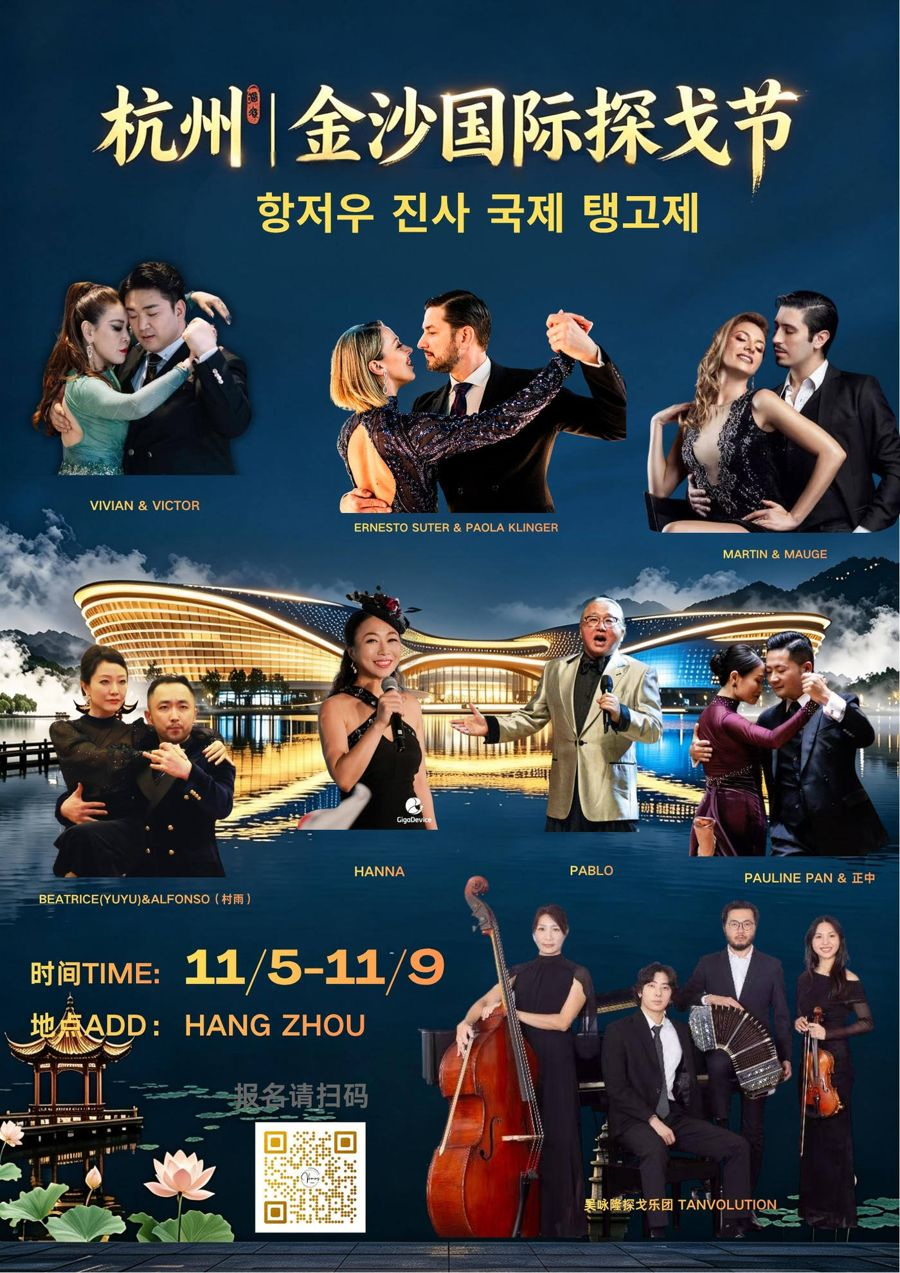
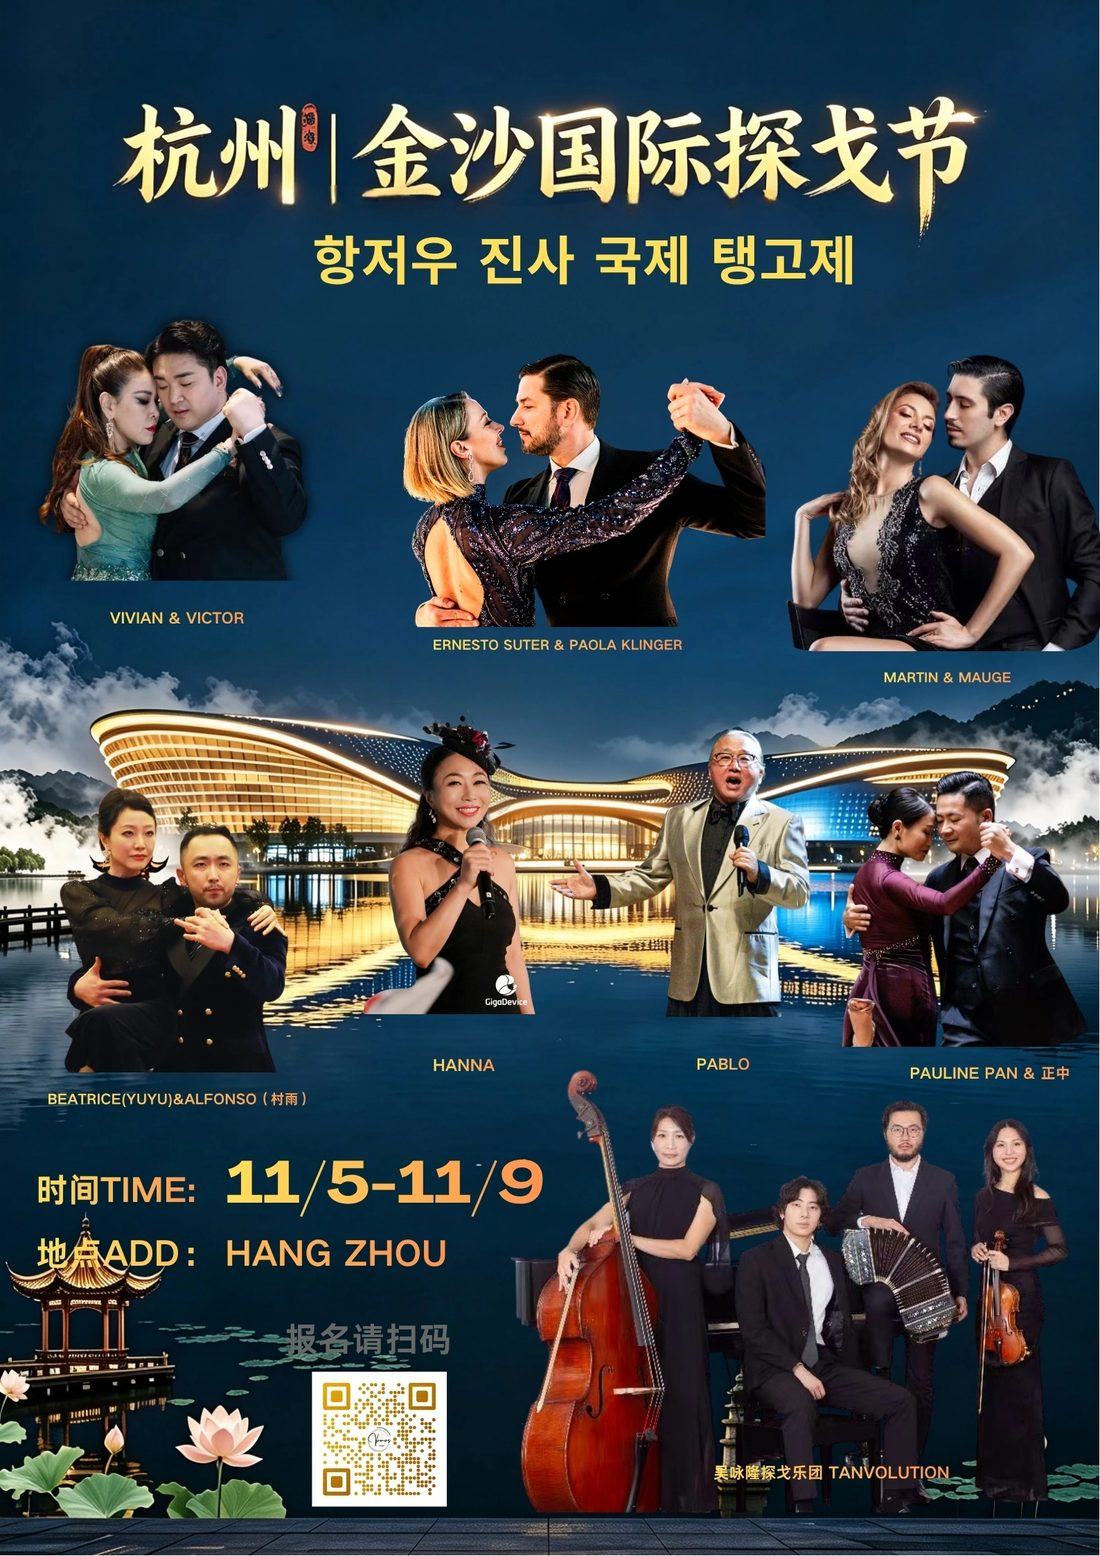
Hangzhou: top poster, program, performers, prices, hotel, contact from organizer article; merge duplicate map entry (featured)

Changed region(s): [[0.0311, 0.7965, 0.0933, 0.8272], [0.6533, 0.1532, 0.6844, 0.1838]]

diff --git a/event/hangzhou-2026-tango-festival/index.html b/event/hangzhou-2026-tango-festival/index.html
@@ -7,34 +7,38 @@
 <link rel="canonical" href="https://tangoweekend.org/event/hangzhou-2026-tango-festival/">
 <link rel="alternate" hreflang="en" href="https://tangoweekend.org/event/hangzhou-2026-tango-festival/">
 <link rel="alternate" hreflang="zh-CN" href="https://tangoweekend.org/event/hangzhou-2026-tango-festival/zh/">
-<link rel="stylesheet" href="../../css/style.css?v=china187">
+<link rel="stylesheet" href="../../css/style.css?v=china188">
 <link rel="icon" href="/favicon.svg" type="image/svg+xml"><link rel="icon" href="/favicon-32.png" sizes="32x32" type="image/png"><link rel="alternate icon" href="/favicon.ico"><link rel="apple-touch-icon" href="/apple-touch-icon.png">
 </head>
 <body class="hz-theme">
 <div class="atm-bar atm-sticky"><a class="atm-map" href="../../asia/"><span aria-hidden="true">←</span> Asia Tango Map</a><a class="atm-lang" href="zh/" hreflang="zh-CN">中文</a></div>
+<div class="hz-topbanner"><img src="../../images/hangzhou/poster.jpg" alt="Hangzhou Jinsha International Tango Festival 2026 poster" width="1100" height="1556" fetchpriority="high"></div>
 <header class="site-header">
   <div class="wrap">
     <a class="brand hz-brand" href="#top">Hangzhou Jinsha International Tango Festival</a>
     <button class="nav-toggle" aria-label="Menu" aria-expanded="false">☰</button>
     <div class="header-menus">
-    <nav class="main-nav" aria-label="Sections"><a href="#top">Home</a><a href="#schedule">Schedule</a><a href="#prices">Prices</a><a href="#hotel">Hotel</a><a href="#register">Register</a></nav>
+    <nav class="main-nav" aria-label="Sections"><a href="#top">Home</a><a href="#program">Program</a><a href="#performers">Performers</a><a href="#prices">Prices</a><a href="#hotel">Hotel</a><a href="#register">Register</a><a href="#contact">Contact</a></nav>
     </div>
   </div>
 </header>
 <section class="hero" id="top"><div class="wrap" style="display:block;text-align:center;max-width:820px">
 <span class="edition">2nd Edition · November 5–9, 2026</span><h1>Hangzhou Jinsha International Tango Festival</h1>
 <p class="meta">Jinsha Grand Theater &amp; Shessiney Natural Cave Wine Cellar · Hangzhou, China</p>
-<p>The autumn scenery of West Lake meets romantic tango. A high-end international tango event with live orchestras, milongas, a West Lake tour, a private banquet and lake-view stays.</p>
-<p class="meta">Theme: Light Luxury International Tango Art Gala</p>
+<p>The autumn scenery of West Lake meets romantic tango. A high-end international tango event with milongas, a West Lake tour, a private banquet and lake-view stays.</p>
+<p class="meta">Theme: Light Luxury International Tango Art Gala · Organized by Vamos 万姿探戈</p>
+<p class="meta">Six milongas · Live music by the 吳詠隆 band from Taiwan · Performances by three guest couples</p>
 <div class="btns" style="justify-content:center"><a class="btn btn-gold" href="#register">Register</a><a class="btn btn-ghost" href="#schedule">Schedule</a></div></div></section>
-<section class="hz-posters"><div class="wrap"><div class="hz-pair">
-<figure><img src="../../images/hangzhou/poster.jpg" alt="Festival poster" width="900" height="1273" loading="lazy"></figure>
+<section class="hz-posters"><div class="wrap"><div class="hz-pair hz-single">
 <figure><img src="../../images/hangzhou/schedule.jpg" alt="Schedule and DJs" width="900" height="1273" loading="lazy"></figure>
 </div></div></section>
-<section id="schedule" class="alt"><div class="wrap"><h2 class="sec-title">Schedule</h2><div class="hz-table-wrap"><table class="hz-table"><thead><tr><th>Date</th><th>Time</th><th>Event</th><th>Venue / activity</th><th>DJ</th><th>Price</th></tr></thead><tbody><tr><td>Thu 11/5</td><td>21:00–03:00</td><td>M1</td><td>Jinsha Grand Theater</td><td>Randy (Taiwan)</td><td>¥220</td></tr><tr><td>Fri 11/6</td><td>15:00–19:00</td><td>M2</td><td>Jinsha Grand Theater</td><td>Sergio (Mexico)</td><td>¥200</td></tr><tr><td>Fri 11/6</td><td>21:00–03:00</td><td>M3</td><td>Jinsha Grand Theater · Milonga, performances, orchestra</td><td>Haiou (Beijing)</td><td>¥420</td></tr><tr><td>Sat 11/7</td><td>15:00–19:00</td><td>M4</td><td>Jinsha Grand Theater</td><td>Gouchen (Beijing)</td><td>¥200</td></tr><tr><td>Sat 11/7</td><td>21:00–03:00</td><td>M5</td><td>Jinsha Grand Theater · Milonga, performances, orchestra</td><td>Wang Wei (Shanghai)</td><td>¥420</td></tr><tr><td>Sun 11/8</td><td>14:00–01:00</td><td>V7</td><td>West Lake cruise, dinner at Shanwaishan, cave wine cellar milonga</td><td>Ernesto Suter (Argentina)</td><td>¥700</td></tr><tr><td>Mon 11/9</td><td>13:00–17:00 · 21:00–24:00</td><td>M6</td><td>Shopping at Haining China Leather City; terrace cocktail bar</td><td>Lily / Randy</td><td>¥120</td></tr></tbody></table></div></div></section>
-<section id="prices"><div class="wrap"><h2 class="sec-title">Prices</h2><div class="hz-cards"><div class="card"><h3>Full pass (early bird, until Aug 31)</h3><ul><li><b>¥1,580</b> per person</li><li><b>¥5,200</b> for a group of 4</li><li>Milonga singles: 10% off when you book two or more</li></ul></div><div class="card"><h3>Weekend milonga packages</h3><ul><li>Package 1: M2, M3, M4, M5 · <b>¥980</b></li><li>Package 2: M3, M4, M5, V7 (milonga only) · <b>¥1,180</b></li></ul></div></div></div></section>
-<section id="hotel" class="alt"><div class="wrap"><h2 class="sec-title">Hotel</h2><div class="card"><h3>Hangzhou Tipsy Hotel / DoubleTree by Hilton Hangzhou East</h3><ul><li>Deluxe twin room · ¥550 per night</li><li>Deluxe king room · ¥550 per night</li><li>Deluxe suite · ¥880 per night</li></ul><p class="meta">Prices include breakfast for two. Choose your check-in and check-out dates on the registration form.</p></div></div></section>
+<section id="program" class="alt"><div class="wrap"><h2 class="sec-title">Program</h2><div class="day"><div class="day-date">Day 1–3 · Nov 5–7</div><div><div class="ev"><div>Afternoon shuttle; doors open</div><div class="ev-time">13:00–14:00</div></div><div class="ev"><div>Afternoon milonga, Jinsha Grand Theater</div><div class="ev-time">14:00–19:00</div></div><div class="ev"><div>Evening shuttle; doors open</div><div class="ev-time">20:00–21:00</div></div><div class="ev"><div>Evening milonga and performances</div><div class="ev-time">21:00–03:00</div></div></div></div><div class="day"><div class="day-date">Day 4 · Sun, Nov 8</div><div><div class="ev"><div>Guided West Lake half-day tour</div><div class="ev-time">14:00–17:30</div></div><div class="ev"><div>Hangzhou-style dinner at Shanwaishan (Botanical Garden)</div><div class="ev-time">18:00–19:30</div></div><div class="ev"><div>Milonga at the Shessiney cave wine cellar, Argentine DJ</div><div class="ev-time">20:00–01:00</div></div></div></div><div class="day"><div class="day-date">Day 5 · Mon, Nov 9</div><div><div class="ev"><div>Depart for Haining China Leather City</div><div class="ev-time">12:00</div></div><div class="ev"><div>Rooftop sunset terrace: music and cocktails</div><div class="ev-time">20:30</div></div></div></div><p class="meta">The Nov 8 program is included in the full pass only and is not sold separately.</p></div></section>
+<section id="performers"><div class="wrap"><h2 class="sec-title">Performers &amp; Music</h2><div class="hz-cards"><div class="card"><h3>Performers</h3><ul><li>Vivian &amp; Victor</li><li>Ernesto Suter &amp; Paola Klinger</li><li>Martin &amp; Mauge</li><li>Beatrice (Yuyu) &amp; Alfonso (村雨)</li><li>Hanna</li><li>Pablo</li><li>Pauline Pan &amp; 正中</li></ul></div><div class="card"><h3>Band</h3><ul><li>吳詠隆探戈乐团 TANVOLUTION</li></ul></div></div></div></section>
+<section id="schedule" class="alt"><div class="wrap"><h2 class="sec-title">Milonga tickets &amp; DJs</h2><div class="hz-table-wrap"><table class="hz-table"><thead><tr><th>Date</th><th>Session</th><th>Venue / activity</th><th>DJ</th><th>Price</th></tr></thead><tbody><tr><td>Thu 11/5</td><td>M1</td><td>Jinsha Grand Theater</td><td>Randy (Taiwan)</td><td>¥220</td></tr><tr><td>Fri 11/6</td><td>M2</td><td>Jinsha Grand Theater</td><td>Sergio (Mexico)</td><td>¥200</td></tr><tr><td>Fri 11/6</td><td>M3</td><td>Jinsha Grand Theater · Milonga, performances, orchestra</td><td>Haiou (Beijing)</td><td>¥420</td></tr><tr><td>Sat 11/7</td><td>M4</td><td>Jinsha Grand Theater</td><td>Gouchen (Beijing)</td><td>¥200</td></tr><tr><td>Sat 11/7</td><td>M5</td><td>Jinsha Grand Theater · Milonga, performances, orchestra</td><td>Wang Wei (Shanghai)</td><td>¥420</td></tr><tr><td>Sun 11/8</td><td>V7</td><td>West Lake cruise, dinner at Shanwaishan, cave wine cellar milonga</td><td>Ernesto Suter (Argentina)</td><td>Full pass only</td></tr><tr><td>Mon 11/9</td><td>M6</td><td>Shopping at Haining China Leather City; terrace cocktail bar</td><td>Lily / Randy</td><td>¥120</td></tr></tbody></table></div></div></section>
+<section id="prices"><div class="wrap"><h2 class="sec-title">Prices</h2><div class="hz-cards"><div class="card"><h3>Full pass</h3><ul><li>Regular: <b>¥2,280</b> per person</li><li>Early bird: <b>¥1,580</b> per person</li><li>Early-bird group of 4: <b>¥5,200</b></li><li>Early-bird deadline: Aug 31, 2026</li><li>Milonga singles: 10% off when you book two or more</li></ul></div><div class="card"><h3>Weekend milonga packages</h3><ul><li>Package 1: M2, M3, M4, M5 · <b>¥980</b></li><li>Package 2: M3, M4, M5, V7 (milonga only) · <b>¥1,180</b></li></ul></div></div></div></section>
+<section id="hotel" class="alt"><div class="wrap"><h2 class="sec-title">Hotel</h2><div class="card"><h3>Hangzhou Tipsy Hotel (official hotel)</h3><ul><li>1.3 km from Jinsha Grand Theater</li><li>Free shuttle to the theater, 13:00–14:00 and 20:00–21:00</li><li>Deluxe standard room · ¥420 per night</li><li>Deluxe twin or king room · ¥550 per night</li><li>Deluxe suite · ¥880 per night</li><li>All rates include breakfast for two</li><li>Book a deluxe king room for 4 nights in a row: the first 5 bookings get a free upgrade to a deluxe suite</li></ul><p class="meta">Choose your check-in and check-out dates on the registration form.</p></div></div></section>
 <section id="register"><div class="wrap" style="text-align:center;max-width:760px"><h2 class="sec-title">Register</h2><p>Fill in the form and submit. Staff will check your details and contact you for payment.</p><div class="btns" style="justify-content:center"><a class="btn btn-gold" href="https://uzzfwntg.jsjform.com/f/NBcCOy" target="_blank" rel="noopener">Open registration form</a></div><p class="meta" style="word-break:break-all">https://uzzfwntg.jsjform.com/f/NBcCOy</p></div></section>
+<section id="contact" class="alt"><div class="wrap" style="max-width:760px"><h2 class="sec-title">Contact</h2><ul class="note"><li>Organizers: Randy &amp; Lily</li><li>Email: <a href="mailto:Randychen17@gmail.com">Randychen17@gmail.com</a></li><li>Phone: +86 18205977051 · 15658118111</li><li>Facebook: <a href="https://www.facebook.com/share/1BdGKPAWNB/" target="_blank" rel="noopener">facebook.com/share/1BdGKPAWNB</a></li></ul></div></section>
 <footer><div class="wrap"><p class="copy">© 2026 Hangzhou Jinsha International Tango Festival · Nov 5–9, 2026 · Hangzhou, China</p></div></footer>
 <script>(function(){var btn=document.querySelector('.nav-toggle'),header=document.querySelector('.site-header');if(!btn||!header)return;btn.addEventListener('click',function(){var o=header.classList.toggle('is-open');btn.setAttribute('aria-expanded',o);});header.querySelectorAll('.main-nav a').forEach(function(a){a.addEventListener('click',function(){header.classList.remove('is-open');});});})();</script>
 </body>

diff --git a/event/hangzhou-2026-tango-festival/zh/index.html b/event/hangzhou-2026-tango-festival/zh/index.html
@@ -7,34 +7,38 @@
 <link rel="canonical" href="https://tangoweekend.org/event/hangzhou-2026-tango-festival/zh/">
 <link rel="alternate" hreflang="en" href="https://tangoweekend.org/event/hangzhou-2026-tango-festival/">
 <link rel="alternate" hreflang="zh-CN" href="https://tangoweekend.org/event/hangzhou-2026-tango-festival/zh/">
-<link rel="stylesheet" href="../../../css/style.css?v=china187">
+<link rel="stylesheet" href="../../../css/style.css?v=china188">
 <link rel="icon" href="/favicon.svg" type="image/svg+xml"><link rel="icon" href="/favicon-32.png" sizes="32x32" type="image/png"><link rel="alternate icon" href="/favicon.ico"><link rel="apple-touch-icon" href="/apple-touch-icon.png">
 </head>
 <body class="hz-theme">
 <div class="atm-bar atm-sticky"><a class="atm-map" href="../../../zh/asia/"><span aria-hidden="true">←</span> 亚洲探戈地图</a><a class="atm-lang" href="../" hreflang="en">EN</a></div>
+<div class="hz-topbanner"><img src="../../../images/hangzhou/poster.jpg" alt="2026杭州金沙国际探戈节海报" width="1100" height="1556" fetchpriority="high"></div>
 <header class="site-header">
   <div class="wrap">
     <a class="brand hz-brand" href="#top">杭州金沙国际探戈节</a>
     <button class="nav-toggle" aria-label="Menu" aria-expanded="false">☰</button>
     <div class="header-menus">
-    <nav class="main-nav" aria-label="Sections"><a href="#top">首页</a><a href="#schedule">日程</a><a href="#prices">价格</a><a href="#hotel">酒店</a><a href="#register">报名</a></nav>
+    <nav class="main-nav" aria-label="Sections"><a href="#top">首页</a><a href="#program">行程</a><a href="#performers">表演嘉宾</a><a href="#prices">价格</a><a href="#hotel">酒店</a><a href="#register">报名</a><a href="#contact">联系</a></nav>
     </div>
   </div>
 </header>
 <section class="hero" id="top"><div class="wrap" style="display:block;text-align:center;max-width:820px">
 <span class="edition">第二届·2026年11月5日至9日</span><h1>杭州金沙国际探戈节</h1>
 <p class="meta">金沙湖大剧院、雪诗尼天然岩洞酒窖·中国杭州</p>
-<p>西湖秋色遇上浪漫探戈，当欧式岩洞酒窖邂逅阿根廷舞曲，一场汇集现场乐队、集舞会、西湖游、私享晚宴、湖景轻奢旅居于一体的高端国际探戈盛会。</p>
-<p class="meta">主题：钱塘风起，踏戈逐舞——轻奢国际探戈艺术盛宴</p>
+<p>西湖秋色遇上浪漫探戈，当欧式岩洞酒窖邂逅阿根廷舞曲，一场汇集全球舞者、集舞会、西湖游、私享晚宴、湖景轻奢旅居于一体的高端国际探戈盛会。</p>
+<p class="meta">主题：钱塘风起，踏戈逐舞——高端轻奢国际探戈艺术盛宴·主办：Vamos万姿探戈</p>
+<p class="meta">六场舞会·台湾吳詠隆乐团现场演奏·三对国内外嘉宾表演</p>
 <div class="btns" style="justify-content:center"><a class="btn btn-gold" href="#register">立即报名</a><a class="btn btn-ghost" href="#schedule">日程</a></div></div></section>
-<section class="hz-posters"><div class="wrap"><div class="hz-pair">
-<figure><img src="../../../images/hangzhou/poster.jpg" alt="活动海报" width="900" height="1273" loading="lazy"></figure>
+<section class="hz-posters"><div class="wrap"><div class="hz-pair hz-single">
 <figure><img src="../../../images/hangzhou/schedule.jpg" alt="日程与DJ" width="900" height="1273" loading="lazy"></figure>
 </div></div></section>
-<section id="schedule" class="alt"><div class="wrap"><h2 class="sec-title">日程</h2><div class="hz-table-wrap"><table class="hz-table"><thead><tr><th>日期</th><th>时间</th><th>场次</th><th>地点／活动</th><th>DJ</th><th>价格</th></tr></thead><tbody><tr><td>11月5日（周四）</td><td>21:00–03:00</td><td>M1</td><td>金沙大剧院</td><td>Randy（台湾）</td><td>¥220</td></tr><tr><td>11月6日（周五）</td><td>15:00–19:00</td><td>M2</td><td>金沙大剧院</td><td>Sergio（墨西哥）</td><td>¥200</td></tr><tr><td>11月6日（周五）</td><td>21:00–03:00</td><td>M3</td><td>金沙大剧院·舞会、嘉宾表演、乐团</td><td>海鸥（北京）</td><td>¥420</td></tr><tr><td>11月7日（周六）</td><td>15:00–19:00</td><td>M4</td><td>金沙大剧院</td><td>勾陈（北京）</td><td>¥200</td></tr><tr><td>11月7日（周六）</td><td>21:00–03:00</td><td>M5</td><td>金沙大剧院·舞会、嘉宾表演、乐团</td><td>王为（上海）</td><td>¥420</td></tr><tr><td>11月8日（周日）</td><td>14:00–01:00</td><td>V7</td><td>西湖游船、山外山晚宴、岩洞酒窖舞会</td><td>Ernesto Suter（阿根廷）</td><td>¥700</td></tr><tr><td>11月9日（周一）</td><td>13:00–17:00 · 21:00–24:00</td><td>M6</td><td>海宁中国皮革城购物；网红露台微醺鸡尾酒</td><td>Lily／Randy</td><td>¥120</td></tr></tbody></table></div></div></section>
-<section id="prices"><div class="wrap"><h2 class="sec-title">价格</h2><div class="hz-cards"><div class="card"><h3>早鸟价通票（截止8月31日）</h3><ul><li><b>1580元</b>／位</li><li>4人报团<b>5200元</b></li><li>舞会单场：同报两场以上打9折</li></ul></div><div class="card"><h3>周末舞会套票</h3><ul><li>套票1：M2、M3、M4、M5·<b>980元</b></li><li>套票2：M3、M4、M5、V7（仅舞会）·<b>1180元</b></li></ul></div></div></div></section>
-<section id="hotel" class="alt"><div class="wrap"><h2 class="sec-title">酒店</h2><div class="card"><h3>杭州Tipsy迪普希酒店／杭州和达希尔顿逸林酒店</h3><ul><li>豪华双床房·550元／天</li><li>豪华大床房·550元／天</li><li>豪华套房·880元／天</li></ul><p class="meta">房价含双早。入住和离店日期请在报名表中填写。</p></div></div></section>
+<section id="program" class="alt"><div class="wrap"><h2 class="sec-title">活动行程</h2><div class="day"><div class="day-date">Day1–3·11月5日至7日</div><div><div class="ev"><div>午后专车接驳，嘉宾入场</div><div class="ev-time">13:00–14:00</div></div><div class="ev"><div>金沙下午场Milonga舞会</div><div class="ev-time">14:00–19:00</div></div><div class="ev"><div>夜间专车接驳，嘉宾入场暖场</div><div class="ev-time">20:00–21:00</div></div><div class="ev"><div>金沙晚间场Milonga＋主题表演</div><div class="ev-time">21:00–次日03:00</div></div></div></div><div class="day"><div class="day-date">Day4·11月8日（周日）</div><div><div class="ev"><div>专属西湖半日游，导游全程讲解</div><div class="ev-time">14:00–17:30</div></div><div class="ev"><div>杭式特色晚宴（山外山，植物园）</div><div class="ev-time">18:00–19:30</div></div><div class="ev"><div>雪诗尼酒窖Milonga舞会，阿根廷DJ</div><div class="ev-time">20:00–01:00</div></div></div></div><div class="day"><div class="day-date">Day5·11月9日（周一）</div><div><div class="ev"><div>出发前往海宁国际皮革城</div><div class="ev-time">12:00</div></div><div class="ev"><div>网红落日观景天台，音乐与鸡尾酒</div><div class="ev-time">20:30</div></div></div></div><p class="meta">11月8日周日行程为通票专享，不单独售卖。</p></div></section>
+<section id="performers"><div class="wrap"><h2 class="sec-title">表演嘉宾与乐团</h2><div class="hz-cards"><div class="card"><h3>表演嘉宾</h3><ul><li>Vivian &amp; Victor</li><li>Ernesto Suter &amp; Paola Klinger</li><li>Martin &amp; Mauge</li><li>Beatrice (Yuyu) &amp; Alfonso (村雨)</li><li>Hanna</li><li>Pablo</li><li>Pauline Pan &amp; 正中</li></ul></div><div class="card"><h3>乐团</h3><ul><li>吳詠隆探戈乐团 TANVOLUTION</li></ul></div></div></div></section>
+<section id="schedule" class="alt"><div class="wrap"><h2 class="sec-title">舞会场次与DJ</h2><div class="hz-table-wrap"><table class="hz-table"><thead><tr><th>日期</th><th>场次</th><th>地点／活动</th><th>DJ</th><th>价格</th></tr></thead><tbody><tr><td>11月5日（周四）</td><td>M1</td><td>金沙大剧院</td><td>Randy（台湾）</td><td>¥220</td></tr><tr><td>11月6日（周五）</td><td>M2</td><td>金沙大剧院</td><td>Sergio（墨西哥）</td><td>¥200</td></tr><tr><td>11月6日（周五）</td><td>M3</td><td>金沙大剧院·舞会、嘉宾表演、乐团</td><td>海鸥（北京）</td><td>¥420</td></tr><tr><td>11月7日（周六）</td><td>M4</td><td>金沙大剧院</td><td>勾陈（北京）</td><td>¥200</td></tr><tr><td>11月7日（周六）</td><td>M5</td><td>金沙大剧院·舞会、嘉宾表演、乐团</td><td>王为（上海）</td><td>¥420</td></tr><tr><td>11月8日（周日）</td><td>V7</td><td>西湖游船、山外山晚宴、岩洞酒窖舞会</td><td>Ernesto Suter（阿根廷）</td><td>仅限通票</td></tr><tr><td>11月9日（周一）</td><td>M6</td><td>海宁中国皮革城购物；网红露台微醺鸡尾酒</td><td>Lily／Randy</td><td>¥120</td></tr></tbody></table></div></div></section>
+<section id="prices"><div class="wrap"><h2 class="sec-title">价格</h2><div class="hz-cards"><div class="card"><h3>通票</h3><ul><li>原价：<b>2280元</b>／位</li><li>早鸟价：<b>1580元</b>／位</li><li>四人团体早鸟价：<b>5200元</b></li><li>早鸟截止：2026年8月31日</li><li>舞会单场：同报两场以上打9折</li></ul></div><div class="card"><h3>周末舞会套票</h3><ul><li>套票1：M2、M3、M4、M5·<b>980元</b></li><li>套票2：M3、M4、M5、V7（仅舞会）·<b>1180元</b></li></ul></div></div></div></section>
+<section id="hotel" class="alt"><div class="wrap"><h2 class="sec-title">酒店</h2><div class="card"><h3>杭州Tipsy迪普希酒店（官方指定酒店）</h3><ul><li>距金沙湖大剧院1.3公里</li><li>免费专车接驳至剧院：13:00–14:00、20:00–21:00</li><li>豪华标准间·420元／天</li><li>豪华双床、大床间·550元／天</li><li>豪华套房·880元／天</li><li>以上房价均含双早</li><li>连续订4晚豪华大床房，前5位可免费升级豪华套房，先订先得</li></ul><p class="meta">入住和离店日期请在报名表中填写。</p></div></div></section>
 <section id="register"><div class="wrap" style="text-align:center;max-width:760px"><h2 class="sec-title">立即报名</h2><p>填写完整后点击“立即报名”，工作人员核对后将联系您收费。</p><div class="btns" style="justify-content:center"><a class="btn btn-gold" href="https://uzzfwntg.jsjform.com/f/NBcCOy" target="_blank" rel="noopener">打开报名表</a></div><p class="meta" style="word-break:break-all">https://uzzfwntg.jsjform.com/f/NBcCOy</p></div></section>
+<section id="contact" class="alt"><div class="wrap" style="max-width:760px"><h2 class="sec-title">联系方式</h2><ul class="note"><li>会务组联系人：Randy＆Lily</li><li>邮箱：<a href="mailto:Randychen17@gmail.com">Randychen17@gmail.com</a></li><li>手机：+86 18205977051·15658118111</li></ul></div></section>
 <footer><div class="wrap"><p class="copy">© 2026杭州金沙国际探戈节·2026年11月5日至9日·中国杭州</p></div></footer>
 <script>(function(){var btn=document.querySelector('.nav-toggle'),header=document.querySelector('.site-header');if(!btn||!header)return;btn.addEventListener('click',function(){var o=header.classList.toggle('is-open');btn.setAttribute('aria-expanded',o);});header.querySelectorAll('.main-nav a').forEach(function(a){a.addEventListener('click',function(){header.classList.remove('is-open');});});})();</script>
 </body>

diff --git a/css/style.css b/css/style.css
@@ -1754,3 +1754,7 @@ body.sy-theme .atm-bar,body.hz-theme .atm-bar{color:#F6D58E;background:radial-gr
 body.cw-theme .atm-bar{color:#5a1a3c;background:linear-gradient(90deg,#f5b8cf,#fde4ee 50%,#f5b8cf);border-bottom:1px solid #c2306f}
 body.cw-theme .site-header,body.sy-theme .site-header,body.hz-theme .site-header{position:sticky;top:32px}
 html:has(body.cw-theme),html:has(body.sy-theme),html:has(body.hz-theme){scroll-padding-top:136px}
+.hz-topbanner{background:linear-gradient(180deg,#0c1f3f,#163e72)}
+.hz-topbanner img{display:block;width:100%;height:auto;max-width:1100px;max-height:78vh;object-fit:contain;margin:0 auto}
+.hz-pair.hz-single{grid-template-columns:1fr;max-width:560px}
+@media (max-width:700px){.hz-topbanner img{max-height:none}}
